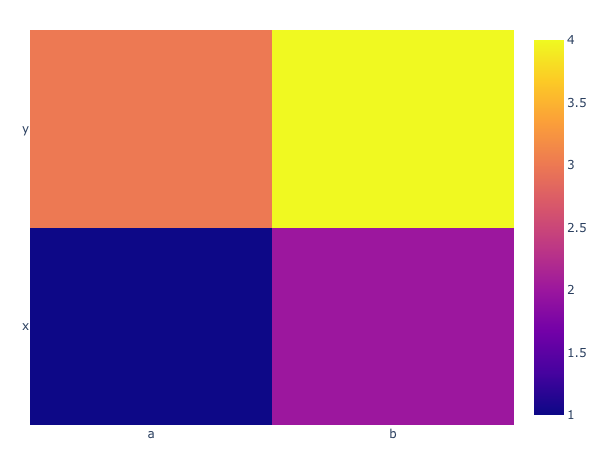
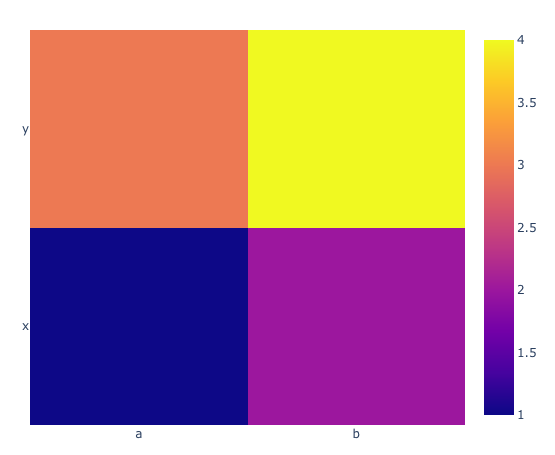
Change default heatmap width

diff --git a/vectorbt/generic/accessors.py b/vectorbt/generic/accessors.py
@@ -1134,7 +1134,7 @@ class GenericSRAccessor(GenericAccessor, BaseSRAccessor):
         if fig is None:
             fig = make_subplots(specs=[[{"secondary_y": True}]])
             if 'width' in layout:
-                fig.update_layout(width=layout['width'] + 150)
+                fig.update_layout(width=layout['width'] + 100)
         fig.update_layout(**layout_kwargs)
 
         other.vbt.ts_heatmap(**heatmap_kwargs, add_trace_kwargs=add_trace_kwargs, fig=fig)

diff --git a/vectorbt/generic/plotting.py b/vectorbt/generic/plotting.py
@@ -607,7 +607,7 @@ class Heatmap(Configured, TraceUpdater):
                     [0, 1],
                     [0.3 * max_width, max_width]
                 ))
-                width = min(width + 150, max_width)  # account for colorbar
+                width = min(width + 100, max_width)  # account for colorbar
                 height = math.ceil(renormalize(
                     y_len / (x_len + y_len),
                     [0, 1],
